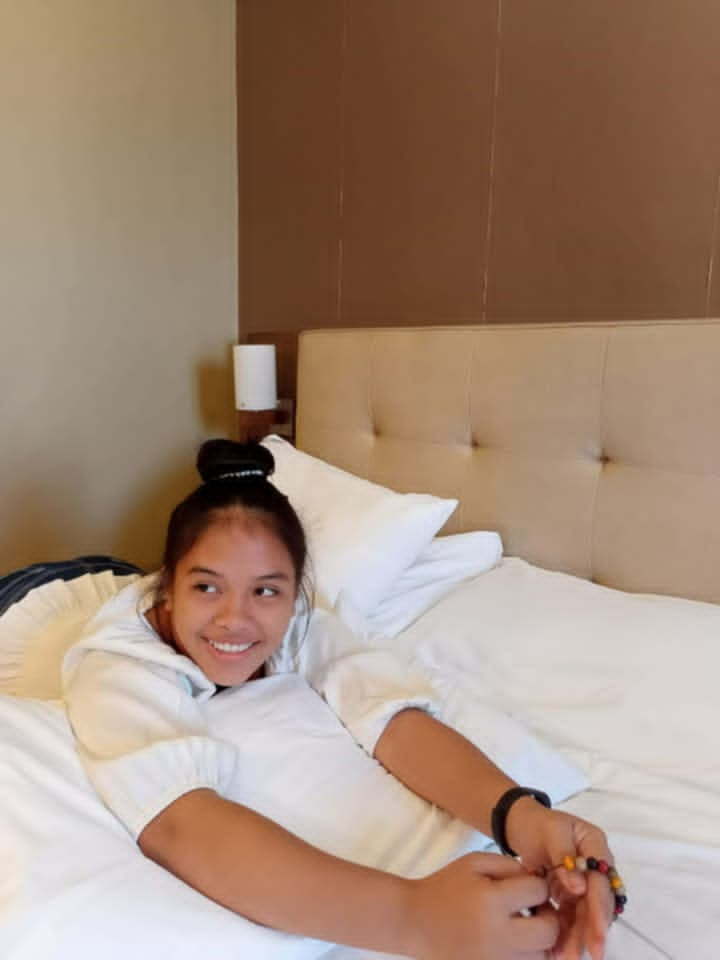
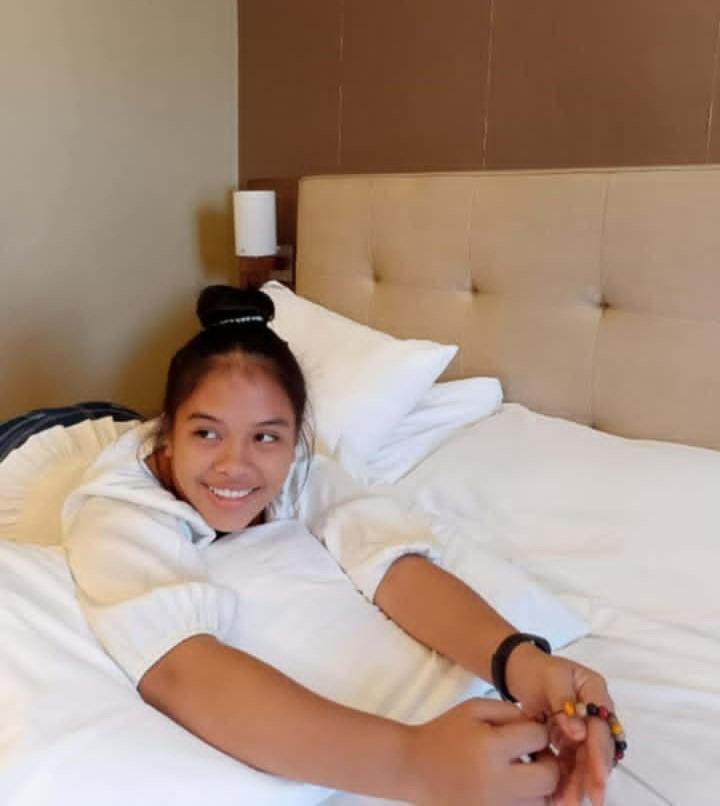
Add files via upload

diff --git a/script.js b/script.js
@@ -290,8 +290,14 @@ document.addEventListener("DOMContentLoaded", () => {
     bindNavigation();
 
     const remembered = localStorage.getItem("portfolio_connect_user");
-    if (remembered && users[remembered]) {
+    if (remembered) {
+        if (users[remembered]) { // Check if the remembered user key is still valid
         signIn(remembered, true, true);
+        } else {
+            // If the remembered user key is no longer valid (e.g., changed from 'zerah' to 'zerahlen')
+            localStorage.removeItem("portfolio_connect_user");
+            console.warn(`Invalid remembered user key '${remembered}' found in localStorage. Clearing it.`);
+        }
     }
 });
 
@@ -574,8 +580,8 @@ function renderAbout() {
         <section class="card">
             ${state.activeUserKey !== 'avril' ? `
             <div style="display: flex; align-items: center; gap: 8px; margin-bottom: 12px;">
-                <span class="material-symbols-rounded" style="color: var(--primary);">${state.activeUserKey === 'zerah' ? 'account_circle' : 'fingerprint'}</span>
-                ${state.activeUserKey !== 'zerah' ? '<h2 style="margin: 0;">Biography</h2>' : ''}
+                <span class="material-symbols-rounded" style="color: var(--primary);">${state.activeUserKey === 'zerahlen' ? 'account_circle' : 'fingerprint'}</span>
+                ${state.activeUserKey !== 'zerahlen' ? '<h2 style="margin: 0;">Biography</h2>' : ''}
             </div>
             ` : ''}
             ${user.about.map((paragraph) => `<p>${paragraph}</p>`).join("")}
@@ -686,7 +692,7 @@ function renderBeach() {
 function renderTravel() {
     const user = activeUser();
     const isAvril = state.activeUserKey === 'avril';
-    const isZerah = state.activeUserKey === 'zerah';
+    const isZerah = state.activeUserKey === 'zerahlen';
 
     if (isAvril || isZerah) {
         const introTitle = isAvril ? "Travel Adventures" : "Dream Destinations";
@@ -826,7 +832,7 @@ function renderGallery() {
 
 function renderHobbies() {
     const user = activeUser();
-    const isZerah = state.activeUserKey === 'zerah';
+    const isZerah = state.activeUserKey === 'zerahlen';
 
     const intro = isZerah ? `
         <section class="card" style="margin-bottom: 24px; border-left: 4px solid var(--primary); background: white;">
